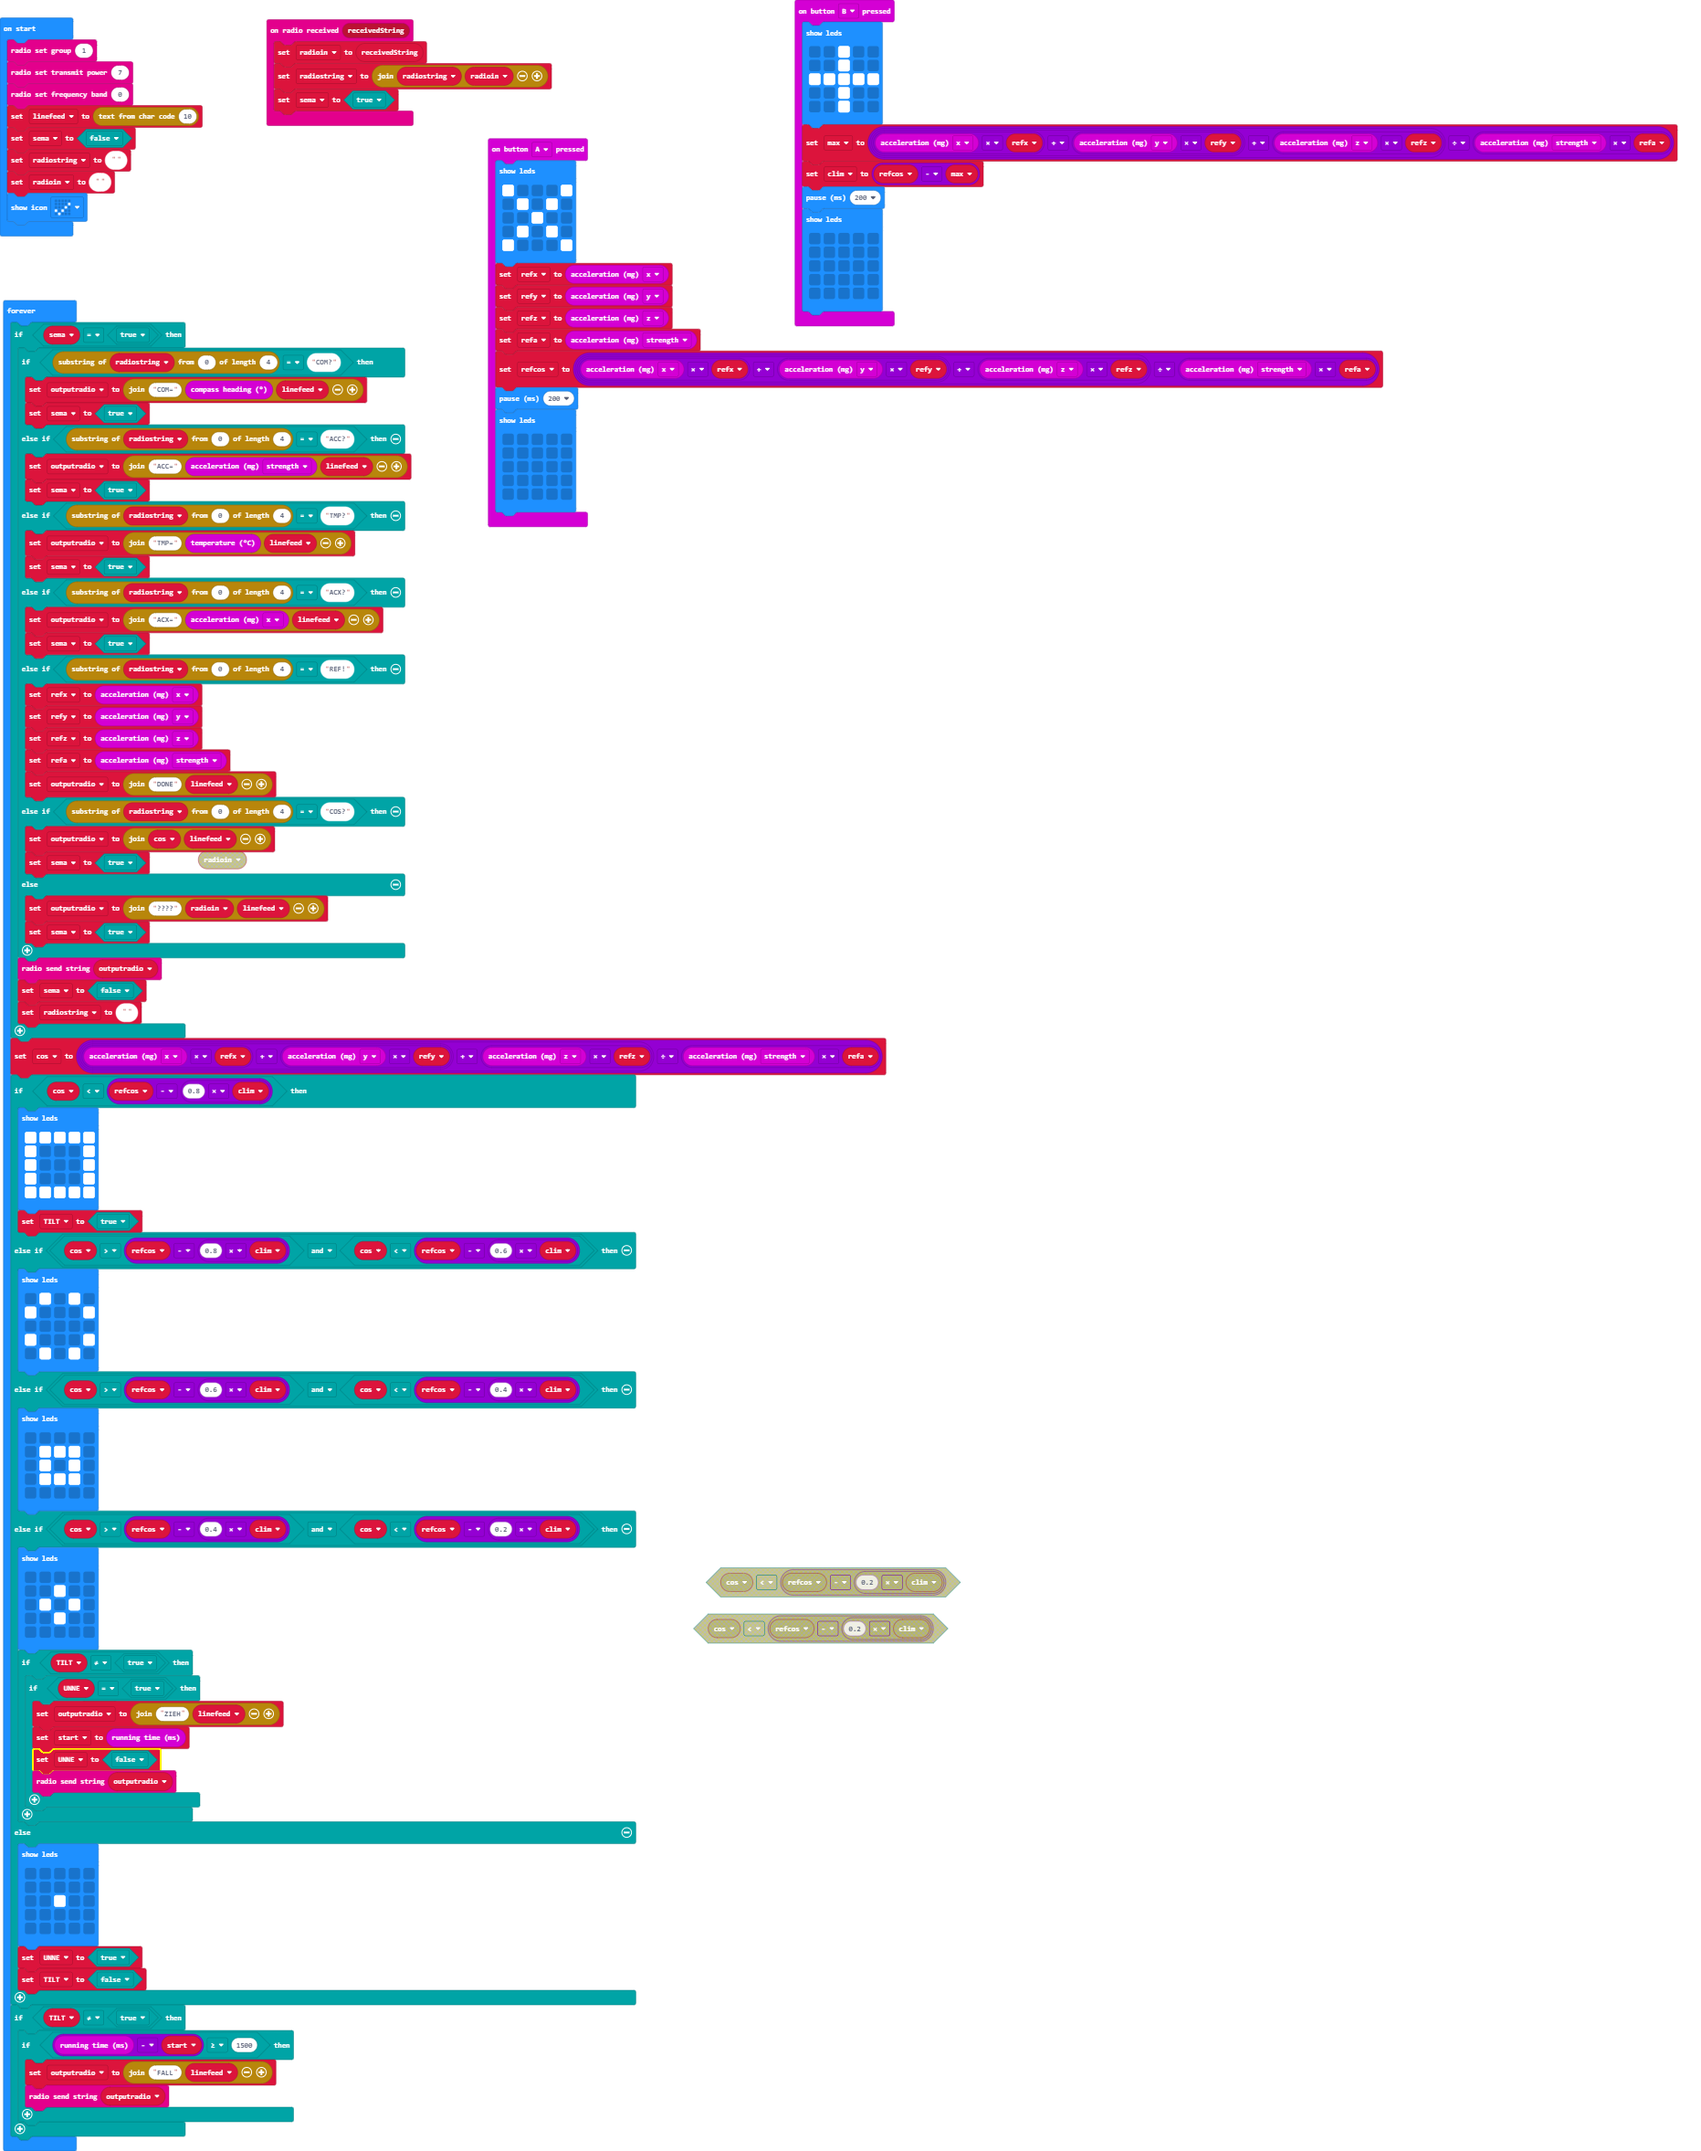
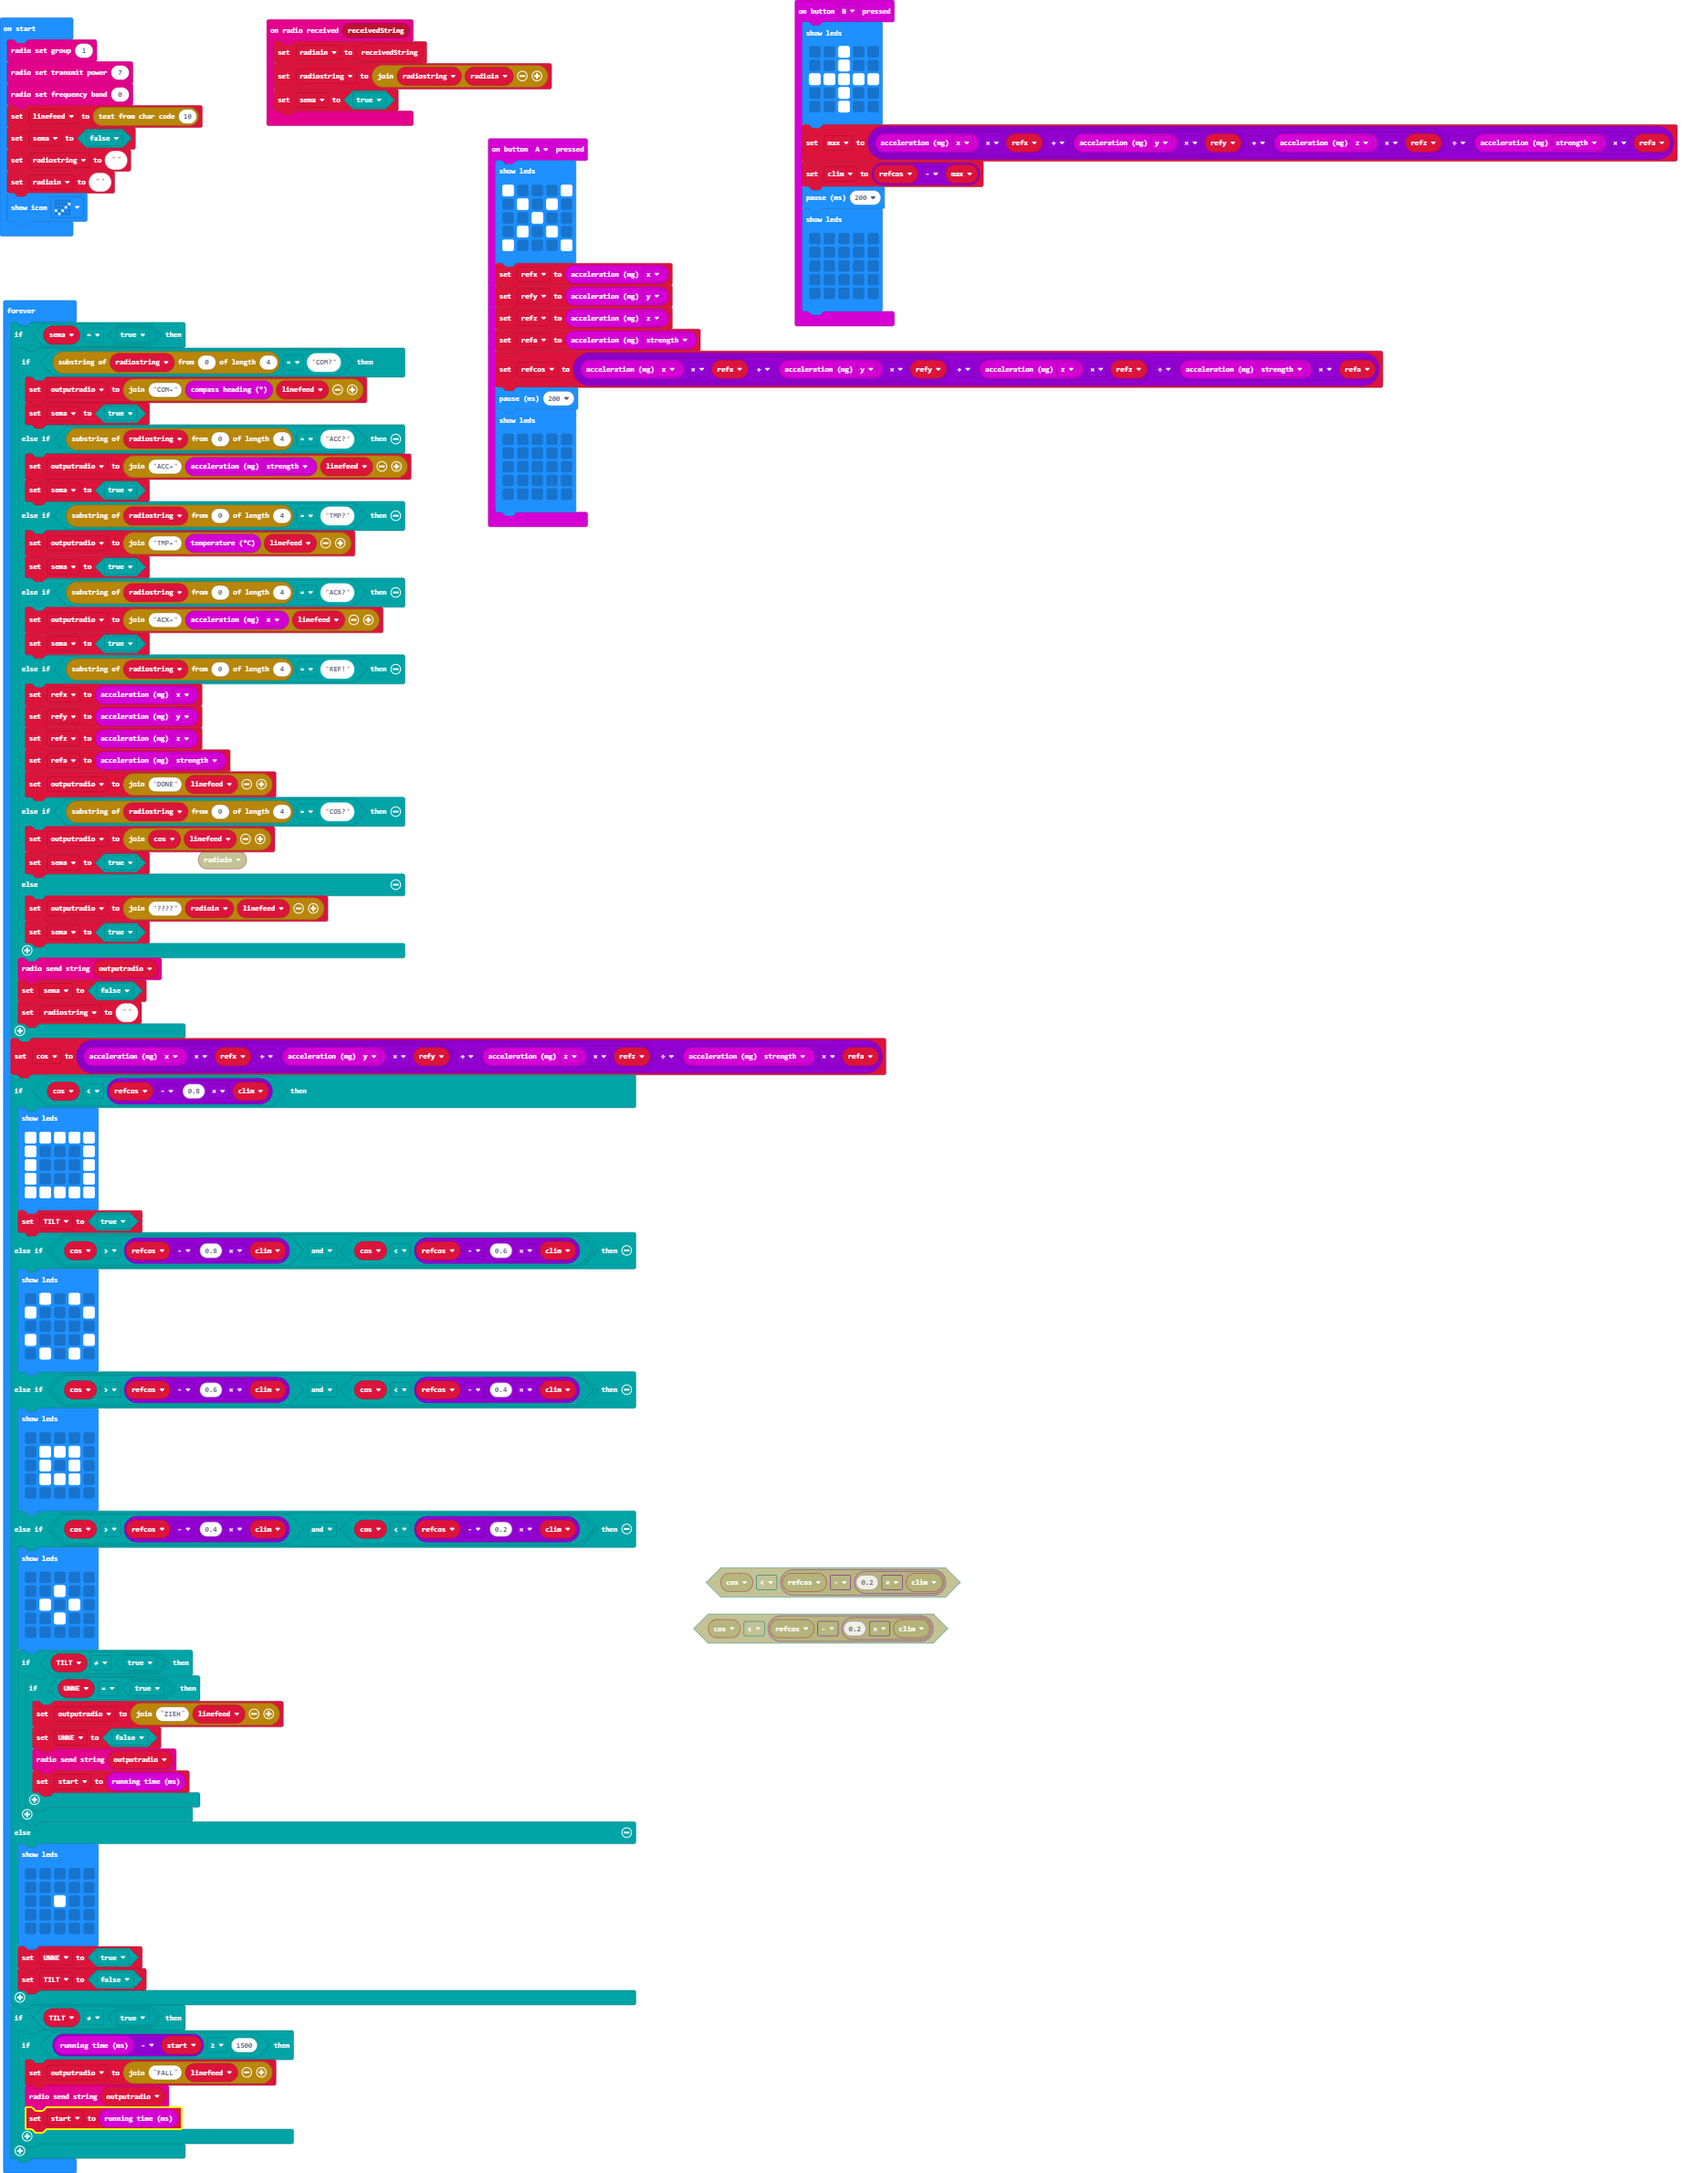
Update main.blocks, main.ts

Changed region(s): [[0.0, 0.031, 0.5293, 0.9919], [0.1557, 0.0, 0.9962, 0.248], [0.4047, 0.713, 0.5604, 0.7749]]

diff --git a/main.ts b/main.ts
@@ -135,9 +135,9 @@ basic.forever(function () {
         if (TILT != true) {
             if (UNNE == true) {
                 outputradio = "ZIEH" + linefeed
-                start = input.runningTime()
                 UNNE = false
                 radio.sendString(outputradio)
+                start = input.runningTime()
             }
         }
     } else {
@@ -155,6 +155,7 @@ basic.forever(function () {
         if (input.runningTime() - start >= 1500) {
             outputradio = "FALL" + linefeed
             radio.sendString(outputradio)
+            start = input.runningTime()
         }
     }
 })
